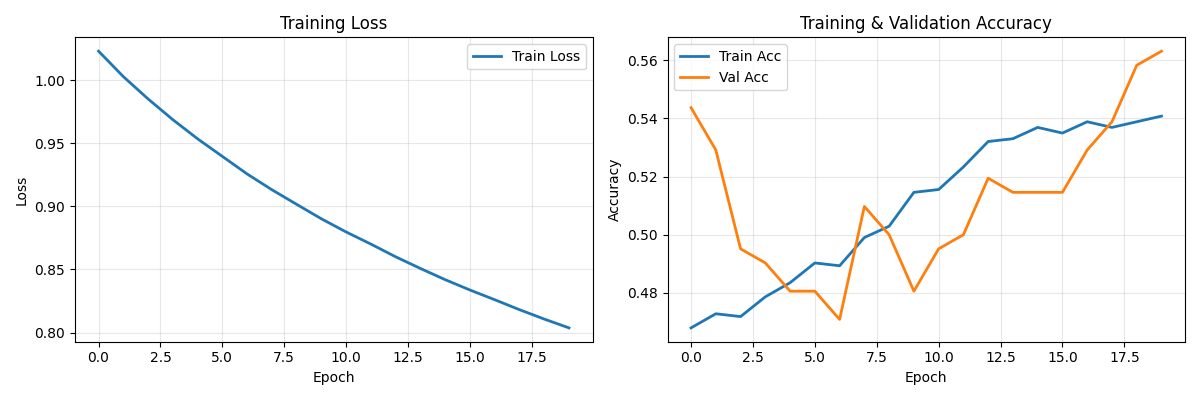
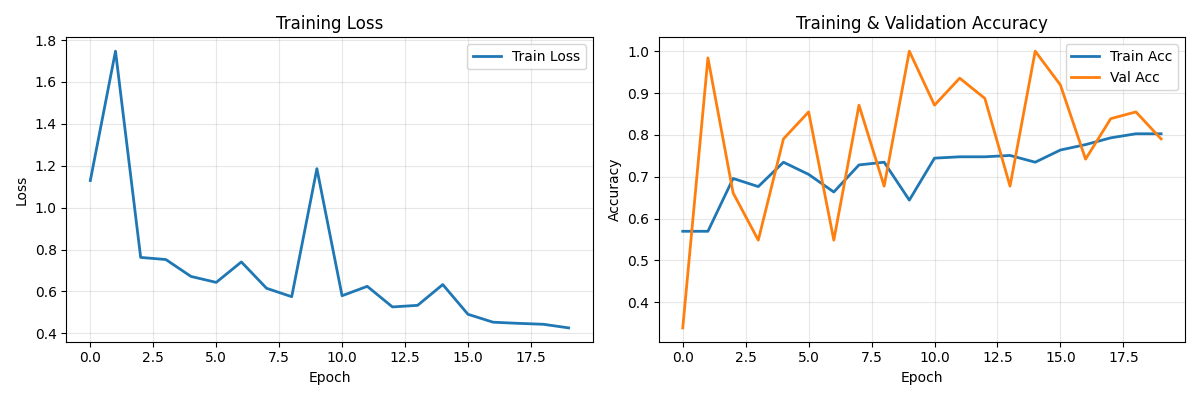
shifted methods around, reduced default image size to 64x64, and change network layer architecture

diff --git a/mlp/network.py b/mlp/network.py
@@ -12,13 +12,6 @@ class Network:
 
    def sigmoid(self, z):
       return 1.0 / (1.0 + np.exp(-z))
-   
-   def sigmoid_prime(self, z):
-      return self.sigmoid(z) * (1 - self.sigmoid(z))
-   
-   def binary_cross_entropy(self, y, a):
-      loss = -(y * np.log(a + 1e-8) + (1 - y) * np.log(1 - a + 1e-8))
-      return float(loss.item()) # convert (1,1) array to scalar
 
    # iterate over each layer
    # calculate the activation for each neuron
@@ -36,6 +29,9 @@ class Network:
          activations.append(activation)
 
       return activations, zs
+   
+   def sigmoid_prime(self, z):
+      return self.sigmoid(z) * (1 - self.sigmoid(z))
    
    # output error
    # backrop through hidden layers
@@ -72,6 +68,10 @@ class Network:
 
       self.weights = [w - (learn_rate / len(mini_batch)) * nw for w, nw in zip(self.weights, nabla_w)]
       self.biases = [b - (learn_rate / len(mini_batch)) * nb for b, nb in zip(self.biases, nabla_b)]
+
+   def binary_cross_entropy(self, y, a):
+      loss = -(y * np.log(a + 1e-8) + (1 - y) * np.log(1 - a + 1e-8))
+      return float(np.mean(loss)) # convert (1,1) array to scalar
 
    # evaluate average loss and accuracy on dataset
    def evaluate(self, data):
@@ -151,10 +151,13 @@ class Network:
       plt.show()
 
 
-loader = DatasetLoader(galaxy_dir='../data/images/galaxies', non_galaxy_dir='../data/images/non_galaxies', preprocessor=ImagePreprocessor(), flatten=True, augment=True, variations=10)
+loader = DatasetLoader(galaxy_dir='../data/images/galaxies', non_galaxy_dir='../data/images/non_galaxies', preprocessor=ImagePreprocessor(), flatten=True, augment=True, variations=3)
 training_data = loader.load()
+# with open('training_data.txt', 'wb') as f:
+#    f.write(str(training_data).encode())
+#    f.close()
 split = int(0.8 * len(training_data))
 training_set = training_data[:split]
 validation_set = training_data[split:]
-net = Network(layers=[16384, 64, 32, 1])
-net.train(training_data=training_data, epochs=20, mini_batch_size=100, learn_rate=0.01, validation_data=validation_set)
+net = Network(layers=[4096, 256, 128, 1])
+net.train(training_data=training_data, epochs=20, mini_batch_size=100, learn_rate=0.1, validation_data=validation_set)

diff --git a/mlp/preprocessor.py b/mlp/preprocessor.py
@@ -2,7 +2,7 @@ import cv2
 import numpy as np
 
 class ImagePreprocessor:
-   def __init__(self, size=(128, 128), color=cv2.COLOR_BGR2GRAY):
+   def __init__(self, size=(64, 64), color=cv2.COLOR_BGR2GRAY):
       self.size = size
       self.color = color
 
